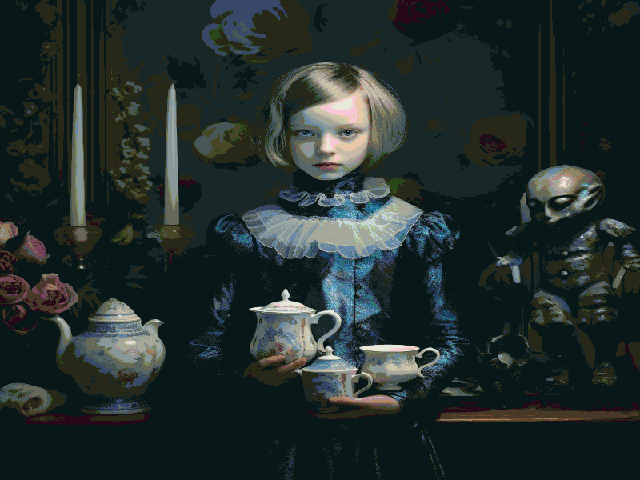
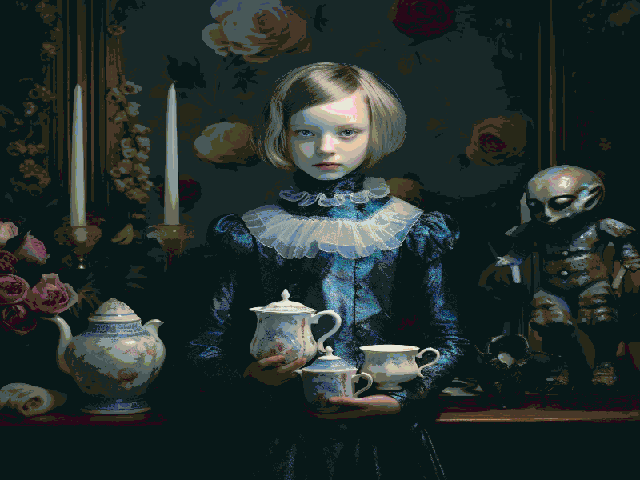
phots-pc: corrected images for the Archimedes

diff --git a/phots-1st-pc/photos-on-the-1st-pc.html b/phots-1st-pc/photos-on-the-1st-pc.html
@@ -65,7 +65,7 @@ target=_blank><img src=magnifier-20.png><sup>x3</sup></a>
 
 <div align=center>
 <p><img src=pgirl-640x256-archie.png>
-<p style=font-size:90%>Архимед (640x256, 53 цвета) <a href=pgirl-640x256-archie.html target=_blank><img src=magnifier-20.png><sup>x2</sup></a>
+<p style=font-size:90%>Архимед (640x256, 50 цветов) <a href=pgirl-640x256-archie.html target=_blank><img src=magnifier-20.png><sup>x2</sup></a>
 </div>
 
 <p>Кстати, появление графики такого качества на офисных ПК сняло тормоз с производства Амиг и они пусть и с опозданием в 2 года заслуженно стали реально массовым компьютером, который, однако, продавали, как и Атари СТ, больше в Европе, чем в Америке. С первым компьютером Джея Майнера случилась аналогичная история, Атари 400/800 тоже фактически придерживали года 2-3. Грустная, но типичная ситуация, когда гений инженера превосходит уровень имеющегося менеджмента. Тут можно и <a href=https://ru.wikipedia.org/wiki/%D0%9F%D0%BE%D0%BB%D0%B7%D1%83%D0%BD%D0%BE%D0%B2,_%D0%98%D0%B2%D0%B0%D0%BD_%D0%98%D0%B2%D0%B0%D0%BD%D0%BE%D0%B2%D0%B8%D1%87>Ползунова</a> вспомнить с его первым промышленным паровым двигателем...
@@ -164,9 +164,9 @@ target=_blank><img src=magnifier-20.png><sup>x3</sup></a>
 <div style=float:left;padding:8px><img src=pgirl-uni-vga-360.gif>
 <br><span style=font-size:90%>VGA 360x240</span></div>
 <div style=float:left;padding:8px><img src=pgirl-uni-archi-1056.png>
-<br><span style=font-size:90%>Acorn Archimedes 1056x256 (55 цветов)</span></div>
+<br><span style=font-size:90%>Acorn Archimedes 1056x256 (52 цветов)</span></div>
 <div style=float:left;padding:8px><img src=pgirl-uni-archi-800.png>
-<br><span style=font-size:90%>Acorn Archimedes 800x600 (58 цветов)</span></div>
+<br><span style=font-size:90%>Acorn Archimedes 800x600 (57 цветов)</span></div>
 <div style=float:left;padding:8px><img src=pgirl-uni-mac2.png>
 <br><span style=font-size:90%>Macintosh II 512x384</span></div>
 <div style=float:left;padding:8px><img src=pgirl-uni-pro3xx.png>
